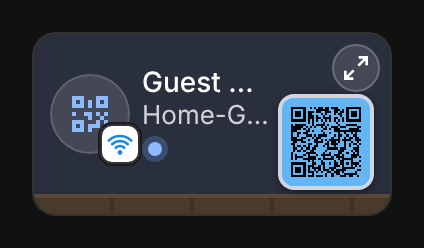
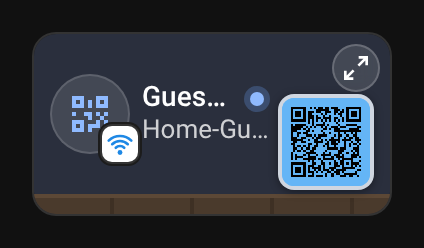
fix: place the status pill by measurement in every language (1.16.0)
The pill sits right after the title only when the whole title and its
whole label fit there; otherwise it goes on its own line under the
subtitle (clamped to one line), the title whole on its row. When the
label would still be cut or the text would leave the banner above its
ground strip, only the dot shows, as on a card of 200 px or less.
Measured after each render and resize, no fixed width threshold.

The narrow mini card's screenshots show the dot beside the title. The
expanded mini card's text no longer keeps room for the picture that a
narrow card hides.

Claude-Session: https://claude.ai/code/session_01F4sAn1T3E3i2QKv5Mdz7uf

Changed region(s): [[0.3373, 0.2823, 0.6439, 0.6492]]

diff --git a/src/wifi-card.js b/src/wifi-card.js
@@ -77,14 +77,15 @@ var WIFI_BANNER_STYLE = `
         @container (max-width: 128px) { .htext { left: 6px; right: 6px; gap: 4px; } .htext .name { font-size: 14px; } .banner .badge { width: 32px; height: 32px; } .banner .badge ha-icon { --mdc-icon-size: 20px; } }`;
 
 // The status pill on the title row (full and mini card, banner or classic header): a dot and a short label in the
-// status colour of the header icon. The title ellipsises first but keeps 4 characters; on a narrow card (260 px or
-// less) the pill goes to its own line under the subtitle, at 200 px or less only its dot shows (the label stays in
-// its tooltip and for screen readers).
+// status colour of the header icon, right after the title only when the whole title and the whole label fit there
+// (measured by the card, see wifiPlacePill); otherwise on its own line under the subtitle; when even that cuts the
+// label or leaves the banner, and at 200 px or less, only its dot shows (the label stays in its tooltip and for
+// screen readers).
 var WIFI_PILL_STYLE = `
         .titles { display: flex; flex-direction: column; min-width: 4ch; }
         .trow { display: flex; align-items: center; gap: 8px; min-width: 0; }
-        .trow .name { flex: 0 1 auto; min-width: 4ch; }
-        .chip { --c: ${WIFI_BLUE}; display: inline-flex; align-items: center; gap: 4px; flex: none; max-width: 51%; box-sizing: border-box;
+        .trow .name { flex: 0 1 auto; min-width: 0; }
+        .chip { --c: ${WIFI_BLUE}; display: inline-flex; align-items: center; gap: 4px; flex: none; max-width: 100%; box-sizing: border-box;
                 padding: 1px 8px; border-radius: 12px; font-size: 11px; font-weight: 500; line-height: 16px; white-space: nowrap; overflow: hidden;
                 background: color-mix(in srgb, var(--c) 15%, transparent); color: color-mix(in srgb, var(--c) 40%, var(--primary-text-color, #212121)); }
         .st-warn .chip { --c: var(--warning-color, #ffa600); }
@@ -93,7 +94,11 @@ var WIFI_PILL_STYLE = `
         .dot { width: 7px; height: 7px; border-radius: 50%; flex: none; background: var(--c); }
         .banner .chip { --c: var(--st); background: color-mix(in srgb, var(--c) 18%, rgba(255,255,255,.78)); color: color-mix(in srgb, var(--c) 45%, #0d2a45); }
         .banner.night .chip { background: color-mix(in srgb, var(--c) 30%, rgba(8,18,38,.55)); color: color-mix(in srgb, var(--c) 35%, #ffffff); }
-        @container (max-width: 260px) { .trow { display: contents; } .titles > .sub { order: 2; } .titles .chip { order: 3; align-self: flex-start; max-width: 100%; margin-top: 2px; } }
+        [data-wrap] .trow { display: contents; }
+        [data-wrap] .titles > .sub { order: 2; }
+        [data-wrap] .titles .chip { order: 3; align-self: flex-start; margin-top: 2px; }
+        [data-dot] .titles .chip { padding: 3px; }
+        [data-dot] .titles .chip .ptxt { position: absolute; width: 1px; height: 1px; overflow: hidden; clip: rect(0 0 0 0); white-space: nowrap; }
         @container (max-width: 200px) { .titles .chip { padding: 3px; } .titles .chip .ptxt { position: absolute; width: 1px; height: 1px; overflow: hidden; clip: rect(0 0 0 0); white-space: nowrap; } }`;
 
 // The WiFi logo in a small white tile on the header icon (bottom right), like the brand badge of the other cards.
@@ -1329,6 +1334,33 @@ function wifiQrMinVersion(bytes) {
 }
 
 // ── wifi-qr-card ──────────────────────────────────────────────────────────────
+// The status pill's place, decided by measurement after each render and each new width (the same rule on every
+// card): on the title row, right after the title, only when the whole title and the pill's whole label fit there;
+// otherwise on its own line under the subtitle (one line), the title whole on its row (cut only when it does not fit
+// alone). When the label is still cut there, or the text block leaves the banner or runs over its ground strip, the
+// pill keeps its dot alone, on the title row (its label stays in title and aria-label). A header of 200 px or less
+// shows the dot alone anyway (CSS), beside the title.
+function wifiPlacePill(head, row, ground) {
+  if (!head) return;
+  head.removeAttribute('data-wrap');
+  head.removeAttribute('data-dot');
+  var pill = row.querySelector(':scope > .chip');
+  var text = pill?.querySelector('.ptxt');
+  if (!text?.getBoundingClientRect || text.getBoundingClientRect().width <= 1) return;
+  var name = row.querySelector(':scope > .name');
+  var gap = parseFloat(getComputedStyle(row).columnGap) || 0;
+  var title = name && name.textContent ? (name.scrollWidth > name.clientWidth ? name.scrollWidth : name.getBoundingClientRect().width) + gap : 0;
+  if (title + pill.getBoundingClientRect().width <= row.getBoundingClientRect().width + 0.5) return;
+  head.setAttribute('data-wrap', '');
+  var box = row.parentElement.getBoundingClientRect();
+  var frame = head.getBoundingClientRect();
+  var out = ground && (box.bottom > ground.getBoundingClientRect().top + 0.5 || box.top < frame.top - 0.5);
+  if (text.scrollWidth > text.clientWidth + 0.5 || out) {
+    head.removeAttribute('data-wrap');
+    head.setAttribute('data-dot', '');
+  }
+}
+
 class WifiQrCard extends HTMLElement {
   static getConfigElement() {
     return document.createElement('wifi-qr-card-editor');
@@ -1394,7 +1426,7 @@ class WifiQrCard extends HTMLElement {
   _titlesHtml(status, title, sub) {
     var label = wifiQrEsc(this._t(this._pillKey(status)));
     return `<div class="titles">
-            <div class="trow"><div class="name" title="${title}">${title}</div><span class="chip" title="${label}"><span class="dot"></span><span class="ptxt">${label}</span></span></div>
+            <div class="trow"><div class="name" title="${title}">${title}</div><span class="chip" title="${label}" aria-label="${label}"><span class="dot"></span><span class="ptxt">${label}</span></span></div>
             <div class="sub" title="${sub}">${sub}</div>
           </div>`;
   }
@@ -1438,6 +1470,7 @@ class WifiQrCard extends HTMLElement {
         ${WIFI_BANNER_STYLE + WIFI_BRAND_STYLE + WIFI_PILL_STYLE}
         .msg-err { padding: 16px; color: ${color}; overflow-wrap: anywhere; }
       </style><ha-card>${this._headerHtml('err', title, wifiQrEsc(c.ssid || ''))}<div class="msg-err">${wifiQrEsc(message)}</div></ha-card>`;
+    this._fitPill();
   }
 
   // The states of the configured entities, as one comparable string.
@@ -1583,8 +1616,33 @@ class WifiQrCard extends HTMLElement {
   }
 
   disconnectedCallback() {
+    this._resize?.disconnect();
+    this._fitWidth = null;
     this._maskPassword();
     this._copyReset();
+  }
+
+  // A new width (or the web font loaded): the status pill is fitted again, in the next frame.
+  connectedCallback() {
+    if (typeof ResizeObserver === 'function') {
+      this._resize ??= new ResizeObserver((entries) => {
+        var w = Math.round(entries[entries.length - 1].contentRect.width);
+        if (w === this._fitWidth) return;
+        this._fitWidth = w;
+        cancelAnimationFrame(this._fitFrame);
+        this._fitFrame = requestAnimationFrame(() => this._fitPill());
+      });
+      this._resize.observe(this);
+    }
+    document.fonts?.ready?.then(() => this._fitPill());
+  }
+
+  // The status pill's place, on the banner and on the classic header (see wifiPlacePill).
+  _fitPill() {
+    var row = this.shadowRoot?.querySelector?.('.titles > .trow');
+    if (!row) return;
+    var banner = row.closest('.banner');
+    wifiPlacePill(banner || row.closest('.header') || row.closest('.row'), row, banner?.querySelector('.ground'));
   }
 
   _render(strict) {
@@ -1685,6 +1743,7 @@ class WifiQrCard extends HTMLElement {
         <div class="hint">${this._t('hint')}</div>
         <span class="sr" id="live" aria-live="polite"></span>
       </ha-card>`;
+    this._fitPill();
 
     if (!isOpen) {
       const btn = this.shadowRoot.getElementById('btn');
@@ -1764,7 +1823,9 @@ var WIFI_MINI_STYLE = `
         .banner.night .zoom:hover { background: rgba(255,255,255,.22); }
         /* Expanded view: the picture steps aside from the button's corner (the compact view sets its own text edge). */
         .banner .scene:not(.mini) { right: 26px; }
-        .banner .htext { right: calc(min(200px, 62%) * .75 + 30px); }`;
+        .banner .htext { right: calc(min(200px, 62%) * .75 + 30px); }
+        /* Narrow card, no picture: the text runs up to the button's corner. */
+        @container (max-width: 300px) { .banner .htext { right: 36px; } }`;
 
 // A click in a dialog opened from the page (a more-info, say) is not a click outside the card.
 function wifiQrInDialog(ev) {
@@ -1788,6 +1849,7 @@ class WifiQrMiniCard extends WifiQrCard {
   }
 
   connectedCallback() {
+    super.connectedCallback();
     document.addEventListener('click', this._onOutside, true);
   }
 
@@ -1894,8 +1956,6 @@ class WifiQrMiniCard extends WifiQrCard {
         dialog svg { width: min(90vw, 90vh); height: auto; display: block; }
         /* A very narrow card (6 columns of a phone): a smaller thumbnail, tighter gaps, 4 px taken from the card padding
            and a 14 px title keep a few characters of the title. */
-        /* Classic compact row (thumbnail and button beside the text): the pill under the network name already below 340 px. */
-        @container (max-width: 340px) { .row .trow { display: contents; } .row .titles > .sub { order: 2; } .row .titles .chip { order: 3; align-self: flex-start; max-width: 100%; margin-top: 2px; } }
         @container (max-width: 200px) {
           .row { gap: 4px; margin: 0 -4px; }
           .name { font-size: 14px; }
@@ -1926,6 +1986,7 @@ class WifiQrMiniCard extends WifiQrCard {
         </div>`}
         <dialog id="zoom" aria-label="${zoom}">${svg}</dialog>
       </ha-card>`;
+    this._fitPill();
     // The thumbnail opens the QR code full screen directly, like the big one of the full card.
     this._bindQr(wasOpen);
     this._bindZoom();

diff --git a/CHANGELOG.md b/CHANGELOG.md
@@ -6,7 +6,7 @@
 - **Animated illustrated header** on both cards (90 px): the title on the wall at the left, a router on a shelf sending its WiFi waves to a laptop at the right, above a parquet strip edge to edge; the mini card frames its QR code thumbnail on the wall beside the router. The header icon is now the MDI QR code, with the WiFi logo as a small badge on it (`logo: false` removes the badge).
 - The icon and the waves take the status colour: blue for a secured network, amber for an open or WEP network, red with no waves when the configured entity has no value (the error is now shown under the header).
 - Night picture when `sun.sun` is below the horizon or Home Assistant's theme is dark, forced with `illustration_theme: day | night`; `illustration: false` keeps the classic header. Animations stop with `prefers-reduced-motion`. Both options are in the visual editor of both cards, in all 22 languages.
-- **Status pill** on the title row of every header (full and mini card, illustrated or classic): a dot and Secured, Open, Weak (WEP) or Unavailable, in the colour of the icon; on its own line under the subtitle on a narrow card, the dot alone at 200 px or less. An open network's subtitle is now the network name (the pill says it is open).
+- **Status pill** on the title row of every header (full and mini card, illustrated or classic): a dot and Secured, Open, Weak (WEP) or Unavailable, in the colour of the icon, placed by measurement in every language: right after the title only when the whole title and the whole label fit there, otherwise on its own line under the subtitle; when the label would still be cut or leave the banner above its floor strip, and at 200 px or less, only its dot shows. The expanded mini card's title no longer leaves room for the picture a narrow card hides. An open network's subtitle is now the network name (the pill says it is open).
 - Mini card: the expand / collapse button sits in the banner's top right corner (24 px, frosted day and night); the expanded view's picture steps aside from it.
 - README: animated captures (GIF) of the header, secured and open network and mini card, light and dark.
 - Night picture with the dark theme even while the sun is up.
